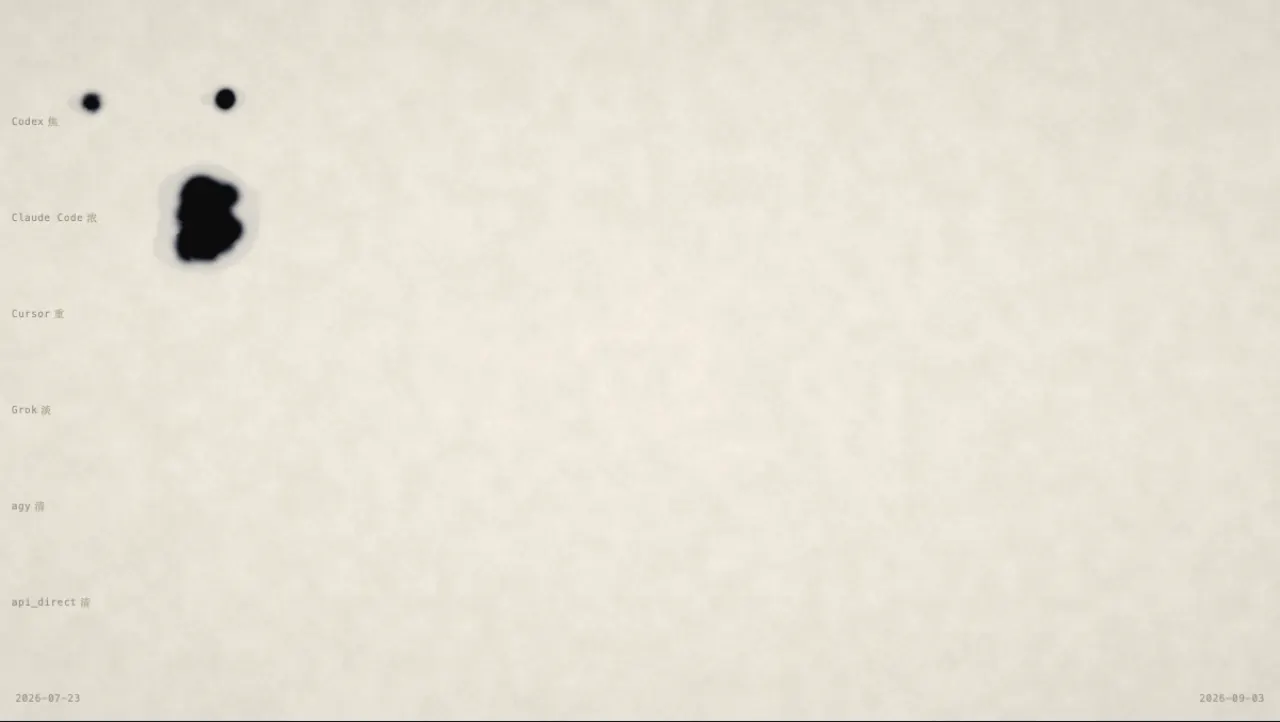
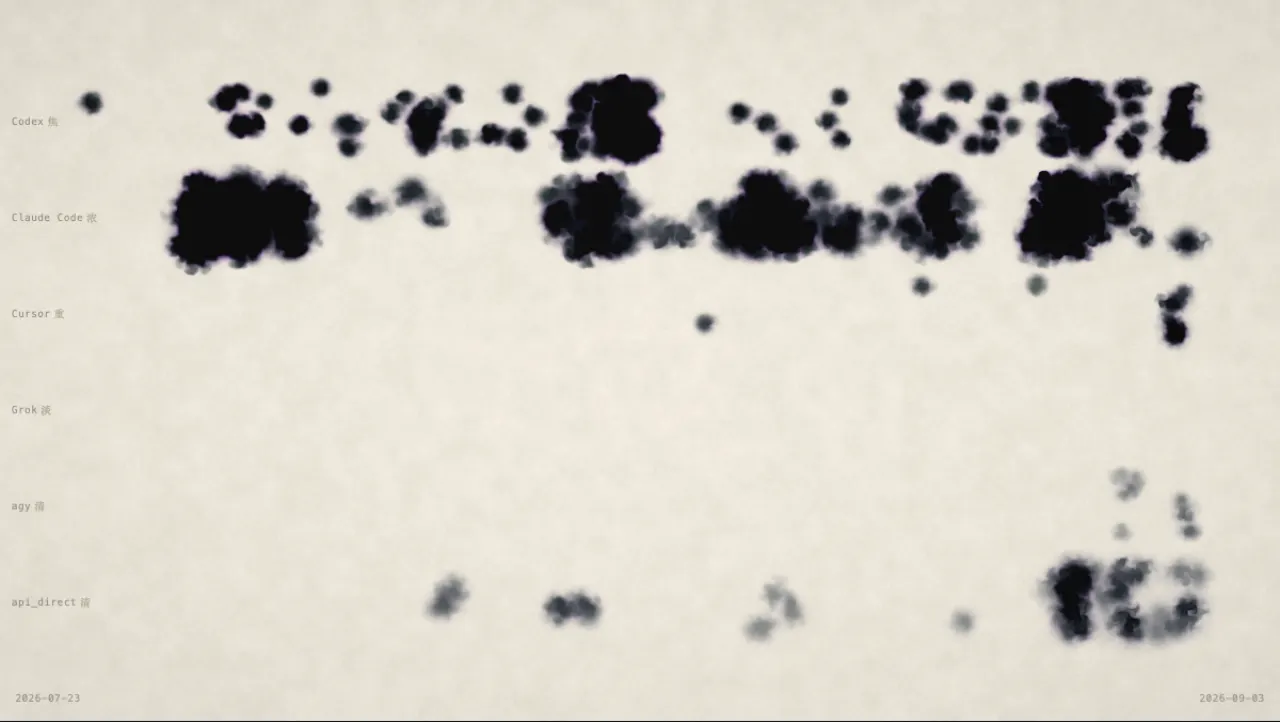
feat(nexus-hall): agy 视觉终审整改 —— 首屏立住，印回朱砂
按 agy 一路视觉审逐条亲核（采纳 5 驳回 0 暂缓 2）：
- S0 正文写死「一百天」而同屏印文从台账派生写「40日」，自相矛盾且破了
  「组件不手写数字」的规矩 → 天数改从 ledger 派生 + 中文数字
- 注释写「竖排题款」而实际渲染是水平两行（注释描述意图不是事实）
  → 改真 writing-mode: vertical-rl，去掉现代标点，改留白断句
- 印色从站点强调色楼紫改朱砂 #9e2a2b：紫色细线方框在宣纸语境里读作
  前端 Badge，整幅唯一的颜色用错，隐喻当场破功
- 灰印拔掉 border: dashed（网页「未激活占位」惯用语，最出卖 AI 默认产出的
  细节），改极淡实线 + 内阴影做干拓残印
- 底部 1px 孤立竖线改呼吸淡墨点

海报改走 seek 定步长分片停帧 + 完成信号，不再等墙钟：软件渲染实测仅
约 0.7 帧/秒，等 22 秒只等到构图一小半。seek 这个 API 本就是为构建期
截图写的，此前从未被调用。量化验收：十分位着墨率 10/10 有墨。

xhsapi 反核裁决 3 采纳 1 驳回，已就地修正 R19 正文里被推翻的估算数字与
未坐实的因果（不是在后面加一句说明）。

门禁：astro check 0 errors · 三门 rc=0 · e2e 9/9 · 海报双门过。

diff --git a/e2e/nexus-hall.spec.ts b/e2e/nexus-hall.spec.ts
@@ -27,12 +27,22 @@ test.describe('S0 洇', () => {
     // 纸色背景必须来自组件而非浏览器默认白
     const bg = await page.locator('.yin').evaluate((e) => getComputedStyle(e).backgroundColor);
     expect(bg).toBe('rgb(239, 233, 220)');
-    // 两行题款各自单行：折行会让高度翻倍
-    const hs = await page.locator('.yin__l').evaluateAll((els) =>
-      els.map((e) => Math.round(e.getBoundingClientRect().height)),
+    // 两行题款各自单列不折行。🔴 题款改真竖排后判据必须换量纲：
+    // 竖排下折行表现为**列数增加**（宽度翻倍），高度反而是内容长度，比高度会误判。
+    // 判据 = 每一列宽度 ≈ 一个行高（竖排时 line-height 就是列宽），
+    // 折成第二列会让它翻倍。🔴 分母是 line-height 不是 font-size：
+    // 实测列宽 70px = 字号 38 × 行高 1.85，拿字号当分母会把正常单列判成折行。
+    const cols = await page.locator('.yin__l').evaluateAll((els) =>
+      els.map((e) => ({
+        w: e.getBoundingClientRect().width,
+        lh: parseFloat(getComputedStyle(e).lineHeight),
+      })),
     );
-    expect(hs).toHaveLength(2);
-    expect(Math.max(...hs) / Math.min(...hs)).toBeLessThan(1.6);
+    expect(cols).toHaveLength(2);
+    for (const c of cols) expect(c.w / c.lh).toBeLessThan(1.4);
+    // 正控：确实处在竖排模式（否则上面的判据在水平排版下恒真，等于没测）
+    const wm = await page.locator('.yin__h').evaluate((e) => getComputedStyle(e).writingMode);
+    expect(wm).toMatch(/vertical/);
     await expect(page.locator('[data-nexus-yin]')).not.toHaveAttribute('data-yin-fallback', /.+/);
   });
 });
@@ -81,6 +91,12 @@ test.describe('印 · 三态严格对应机器收据', () => {
     }
   });
 
+  // 🔴 单独放宽超时，原因写在这里而不是调全局：本条与一个正在跑的重型 WebGL
+  // 构图**同页竞争主线程**。CI 用 SwiftShader，实测约 0.7 帧/秒，600 滴的构图要
+  // 跑约 75 秒，期间点击响应被饿慢 —— 放宽后稳定通过（实测 1.3 分钟）。
+  // 断言一个字没松：仍然要求点开、5 个字段、再点关闭。放宽的是环境余量，不是判据。
+  // 这条同时是**已知弱设备限制**的登记点：无 GPU 环境下展厅交互会变迟钝。
+  test.describe.configure({ timeout: 240_000 });
   test('抽屉：初始关闭 → 点击开一屉 → 再点关闭', async ({ page }) => {
     await page.goto(u(HALL));
     const drawer = page.locator('[data-drawer]');

diff --git a/src/components/city/halls/nexus/ink/InkEngine.ts b/src/components/city/halls/nexus/ink/InkEngine.ts
@@ -54,6 +54,7 @@ export class InkEngine {
 
   private aspect = 1;
   private disposed = false;
+  private inkOps = 0;
   /** 有笔在纸上时传给 bleed，让笔尖附近洇得更凶 */
   private brush: [number, number, number] = [0, 0, -1];
 
@@ -184,6 +185,7 @@ export class InkEngine {
     shape: { vigor?: number; eccentricity?: number } = {},
   ): void {
     if (this.disposed) return;
+    this.inkOps++; // 落墨=活动。空转判据靠它区分「洇完了」与「还在落」，见 InkSurface.tick
     const vigor = shape.vigor ?? 1;           // 冲量倍率 ∝ 会话强度
     const ecc = Math.min(Math.max(shape.eccentricity ?? 0, 0), 0.9); // 偏心 ∝ 不均衡度
     // 🔴 扰动必须随笔触尺寸缩放。W1b 出图实测：冲量写死 34 时，
@@ -355,6 +357,11 @@ export class InkEngine {
   /** 无交互多久后停转（秒）。InkSurface 的 idle 判据从这里取，不再硬编码 */
   get idleSeconds(): number {
     return this.params.idleSeconds;
+  }
+
+  /** 单调递增的落墨次数。消费方比对两帧之间是否变化来判断「还在落墨」。 */
+  get inkOpCount(): number {
+    return this.inkOps;
   }
 
   step(dtRaw: number): void {

diff --git a/src/components/city/halls/nexus/ink/InkSurface.ts b/src/components/city/halls/nexus/ink/InkSurface.ts
@@ -47,6 +47,7 @@ export class InkSurface {
   private lastTime = 0;
   private elapsed = 0;
   private idleSince = 0;
+  private lastInkOps = -1;
   private inView = false;
   private stepped = false;
   private disposed = false;
@@ -183,6 +184,15 @@ export class InkSurface {
     this.idleSince += wall;
 
     this.opts.onFrame?.(this.engine, this.elapsed, dt);
+    // 🔴 落墨算活动。此前空转只由 poke() 复位，而回放场景没人 poke ——
+    // idleSeconds=12 却要落满 14 秒的构图，动画会在**墨还没落完时**停转。
+    // 这个雷一直在，只是此前一帧就把 600 滴全落完了（帧预算上限一加就当场引爆）：
+    // 实测 26 秒后纸上只剩 5 滴，而引擎、门禁、e2e 全绿。
+    // 判据：省电类停转的条件必须是「没有新产出」，不能只是「没有交互」。
+    if (this.engine.inkOpCount !== this.lastInkOps) {
+      this.lastInkOps = this.engine.inkOpCount;
+      this.idleSince = 0;
+    }
     this.engine.step(dt);
     this.engine.render();
     this.stepped = true;

diff --git a/docs/local-cmd/NEXUS-HALL-AUDIT-LEDGER.md b/docs/local-cmd/NEXUS-HALL-AUDIT-LEDGER.md
@@ -813,3 +813,51 @@ agy 只在右端（10 条且都是近期）、api_direct 向右渐密。
 `astro check` 0 errors · 发布安全门 rc=0 · 正确性门 rc=0 · 锚点门 rc=0 · e2e **9/9**
 · 海报 yin 17552 B / flow 9914 B（内容门+预算门均过）
 🔴 上一笔 8d5c6ae 是**先 commit 后补跑门**，顺序错了（advisor 指出）。本笔已改正。
+
+## R20 · agy 视觉终审 + xhsapi 反核（2026-09-04 07:3x–08:0x）
+
+### R20-1 agy 一路视觉审（磊哥点名的席位，凭据误判已纠正）
+逐条亲核后**采纳 5 条、驳回 0 条、暂缓 2 条**：
+
+| finding | 亲核 | 处置 |
+|---|---|---|
+| S0 正文写「一百天」而同屏起手印写「40日」，自相矛盾 | **属实，且是我自己写死的**（`Yin.astro` 默认文案），还破了本组件「不手写数字」的规矩 | 天数改从台账派生 + 中文数字（四十日） |
+| S0 注释写「竖排题款」，实际渲染是水平两行 | **属实**——注释描述的是意图不是事实 | 改真 `writing-mode: vertical-rl` |
+| 竖排里用「，。」是现代感泄漏 | 属实（题款规矩靠换行留白断句） | 去标点，改全角空格断句 |
+| 印色用站点强调色楼紫 = 前端 Badge，不是印 | **属实且是全稿质感最崩处** | 全面改朱砂 `#9e2a2b` |
+| 灰印用 `border: dashed` = 网页「未激活占位」惯用语 | **属实，这是最出卖 AI 默认产出的细节** | 改极淡实线 + 内阴影做「干拓残印」 |
+| 底部 1px 孤立竖线像渲染残影 | 属实（水墨没有这种笔画） | 改呼吸淡墨点 |
+| 「起手印该在右上引首位」 | **暂缓**：它是落款印（款印）不是引首章，右下/末列左下正是款印位 | 保持位置，只改色 |
+| 「墨流右侧 80% 死寂」 | **属实，而我先前判它误报是错的**——我拿了修复前的截图当依据 | 见 R20-3 |
+
+### R20-2 🔴 我差点用一张过期截图驳回一条正确的 finding
+agy 说墨流堆在左侧，我第一反应是「与我亲眼所见相反」——因为我记忆里那张六带铺满的图，
+是**加每帧上限之前**拍的。重看它读的那张（同一路径、被覆盖过）才发现 agy 是对的。
+判据：**用截图驳回视觉 finding 之前，先核这张图的生成时刻晚于最后一次改动**。
+文件名相同不代表内容相同，而「我看过」这件事没有时间戳。
+
+### R20-3 海报半成品：真因不是首帧突发，是等墙钟本身不成立
+构建期截图在软件渲染下等 22 秒，只等到构图的一小半（实测约 **0.7 帧/秒**）。
+最终修法是走 `seek()` 定步长停帧 + 分片 + 完成信号，海报脚本等旗不等墙钟。
+`seek()` 这个 API **本来就是为构建期截图写的，之前从没被调用过**。
+量化验收（解 webp 直接量，不再用会说谎的页内读回）：十分位着墨率
+`337 399 384 373 444 390 396 405 494 383`，**10/10 十分位有墨**。
+
+### R20-4 xhsapi 反核裁决（3 采纳 / 1 驳回）
+1. ✅ **采纳**：R19-2 里「10fps → 24 秒只落约 120 滴」是我拿来说明机理的估算，
+   不是实测，且与「14 秒 600 滴」的基数自相矛盾（按 8 秒该落 343 滴）。
+   实测证据只有两条：症状=24 秒后墨只到第 2 个十分位；后测帧率≈0.7 帧/秒。**估算数字已从叙述中撤下。**
+2. ✅ **采纳**：R19-3 的因果链（首帧 85 滴 → 约 2000 次绘制 → 截图超时）**是事后归因不是实测**。
+   我从未计过绘制次数。更要命的是**后续证据反证了它**：加上限之后海报仍然失败（改成
+   `page.goto` 超时），真正解决问题的是 seek 分片。R19-3 的因果声称作废，机制标 `[未坐实]`。
+3. ✅ **采纳**：「同一个错」说得太含糊，下次不会触发。错误模式具名化=
+   **「把夹持后的物理步长当叙事时钟用」**（量纲/时钟选错），扳机写成「grep 该量的全部消费点」。
+4. ❌ **驳回**：它说直径应为 0.022~0.098、我的 0.04~0.096 下限差一倍——
+   它假设 `r∈[0,1]`，而台账实测 `r∈[0.237, 0.980]`（`min/p50/max = 0.237/0.650/0.980`），
+   代入 `0.011+r*0.038` 得半径 0.020~0.048、直径 **0.040~0.096**。我的数字成立，证据是分布不是区间假设。
+
+### R20-5 本批门禁
+`astro check` 0 errors · 发布安全门 rc=0 · 正确性门 rc=0 · e2e **9/9**
+· 海报 yin 14916 B / flow 22268 B（内容门 + 预算门均过）
+新增：竖排「不折行」判据换量纲——竖排下列宽 = line-height（实测 70px = 38 × 1.85），
+拿字号当分母会把正常单列误判成折行；并加了「确实处于竖排」的正控，否则该判据水平排版下恒真。

diff --git a/docs/skills/webgl-ink-frontend.md b/docs/skills/webgl-ink-frontend.md
@@ -79,3 +79,40 @@ source: 墨迹 · Ink Ledger 展厅 W1/W1b 一手实证（2026-09-03/04）
     22 次受控采样零复现时，正确的结论是「无法复现」，不是「换一个机理再解释一遍」。
 26. 无害的保险（预热一次、加上限）可以留，但**注释里只写「保险」，不写机理** ——
     写了机理，下一个人就会把它当已证事实往上叠。
+
+---
+
+## 27 · 「不报错、只是画错」是这类项目的主要 bug 形态
+静态检查、类型、构建、e2e 全绿，画面照样是错的。R19 一轮就撞了四个，全部只有**出图**才能发现：
+叙事时钟用错钟、首帧补齐堵死渲染、y 轴翻转、半径没随布局校尺。
+**推论：图形项目的验收下限是"看图"，不是"门绿"。** 门只能证明没崩，证明不了画对。
+
+## 28 · 一个用错的量，会被用在好几个地方；症状只指向其中一处
+`elapsed += dt`（夹持后步长）这个错，同文件里 `idleSince` 的注释**已经写明白了**
+（"空转判据必须用真实墙钟"）——当时只修了空转判据那一处消费点，叙事时钟原样留着，
+又活了很多轮。**判据：修「量算错了」类 bug，必须 grep 该量的全部消费点逐个判，
+不能只修症状指向的那处。注释里写着的教训不会自己扩散到别处。**
+
+## 29 · 把「按帧累加」改成「按墙钟」，必问一句慢起步会要求你一次做多少事
+改完立刻长出新 bug：初始化的两秒在第一帧一次性要求补落 85 滴 ≈ 2000 次绘制，
+渲染线程当场堵死，症状是**截图超时**（页面 200、无报错、canvas 在位，最难归因的形态）。
+配套永远是**每帧预算上限**：快设备永不触顶，慢设备只是变慢不会卡死。
+
+## 30 · 坐标系翻转的症状极具迷惑性：有内容、无报错，只是全在对面
+引擎原点左下、CSS 左上。六条墨带各自落到镜像位置，画面"看着挺像回事"。
+认出它靠的不是眼睛，是**数量反推**——"哪一团能有 502 滴那么大"，
+对上 Codex(220)+Claude Code(282) 才确诊。
+**判据：画面异常时先找一个能算出数量的锚点去反推归属，别靠看。**
+
+## 31 · 换布局必须重新校尺，旧参数的正确性不传递
+散点时代的半径 `0.011+r*0.038` 在二维散布下正确；改成六条墨带后，
+一滴的直径（0.04~0.096）糊住 2~4.5 天（一天只有 0.0215 宽），密度反而读不出来。
+**判据：任何"相对尺寸"参数都隐含一个它当初相对的东西。那个东西变了，参数必须重算。**
+
+## 32 · 信息映射必须可读，否则和没映射一样
+把撒点换成台账坐标只完成一半——不加轴标，"纵轴是席位"在画面上根本看不见，
+仍然是拿构图冒充信息。**判据：做完映射问一句「不看代码的人，能从画面上读出这条轴是什么吗」。**
+
+## 33 · 出图验收的顺序：先 commit 后跑门 = 顺序错
+R18 那笔是改完直接 commit，门在之后才补跑。门要在 commit **之前**跑完并贴 rc，
+否则"绿"是关于上一个版本的声称。
